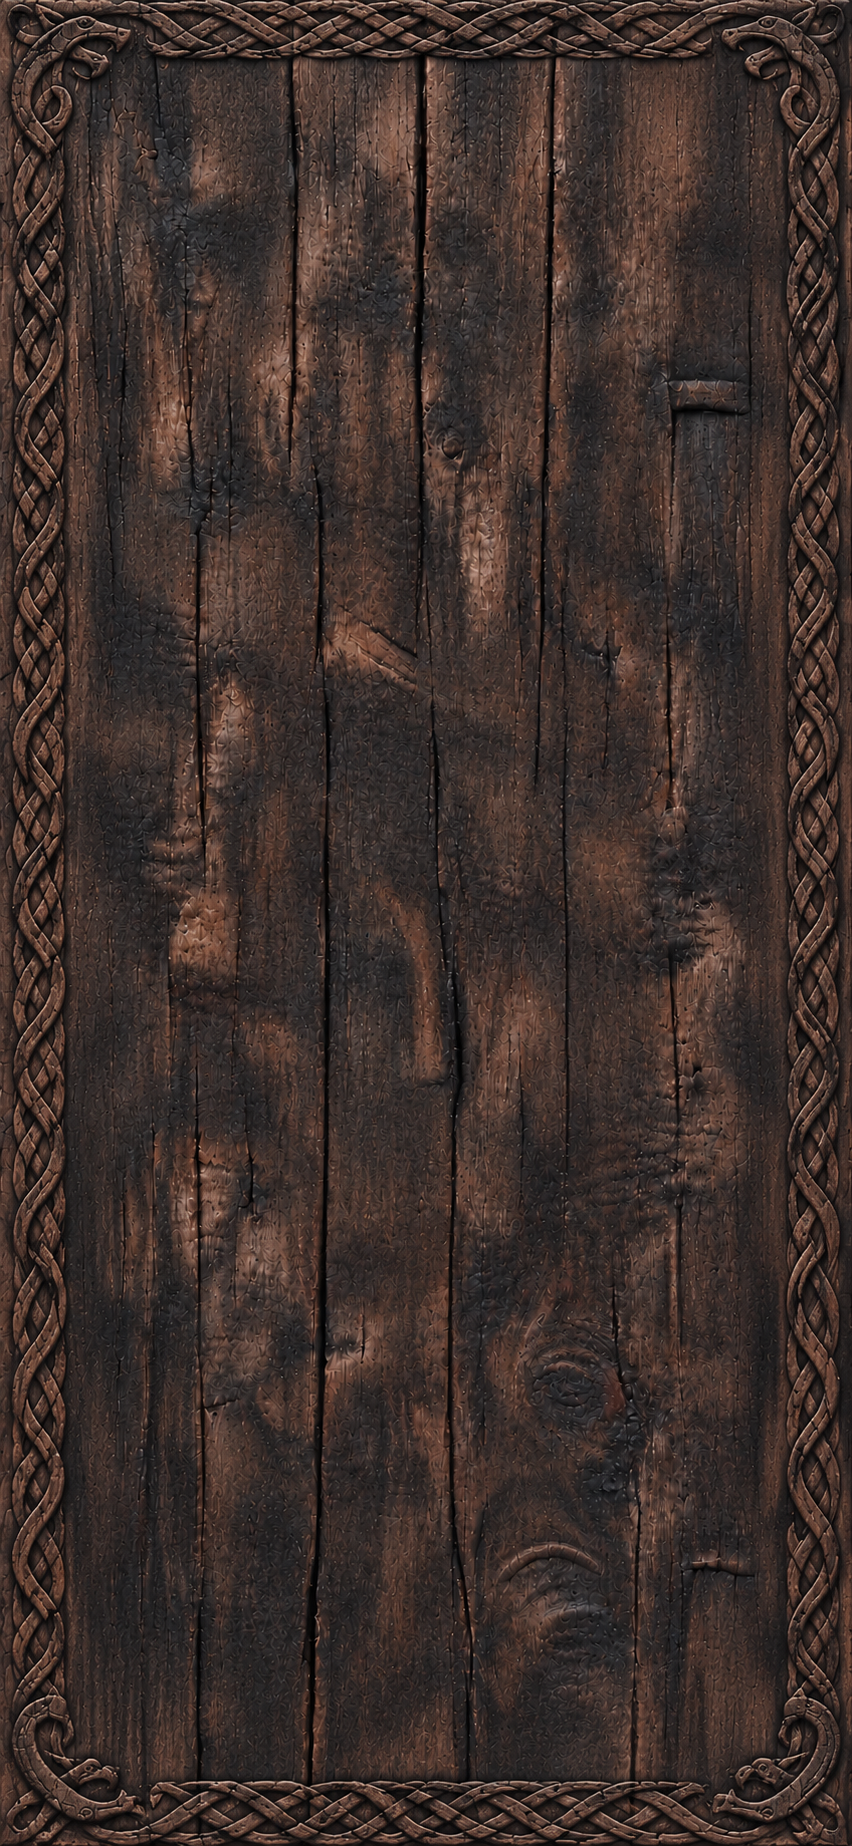
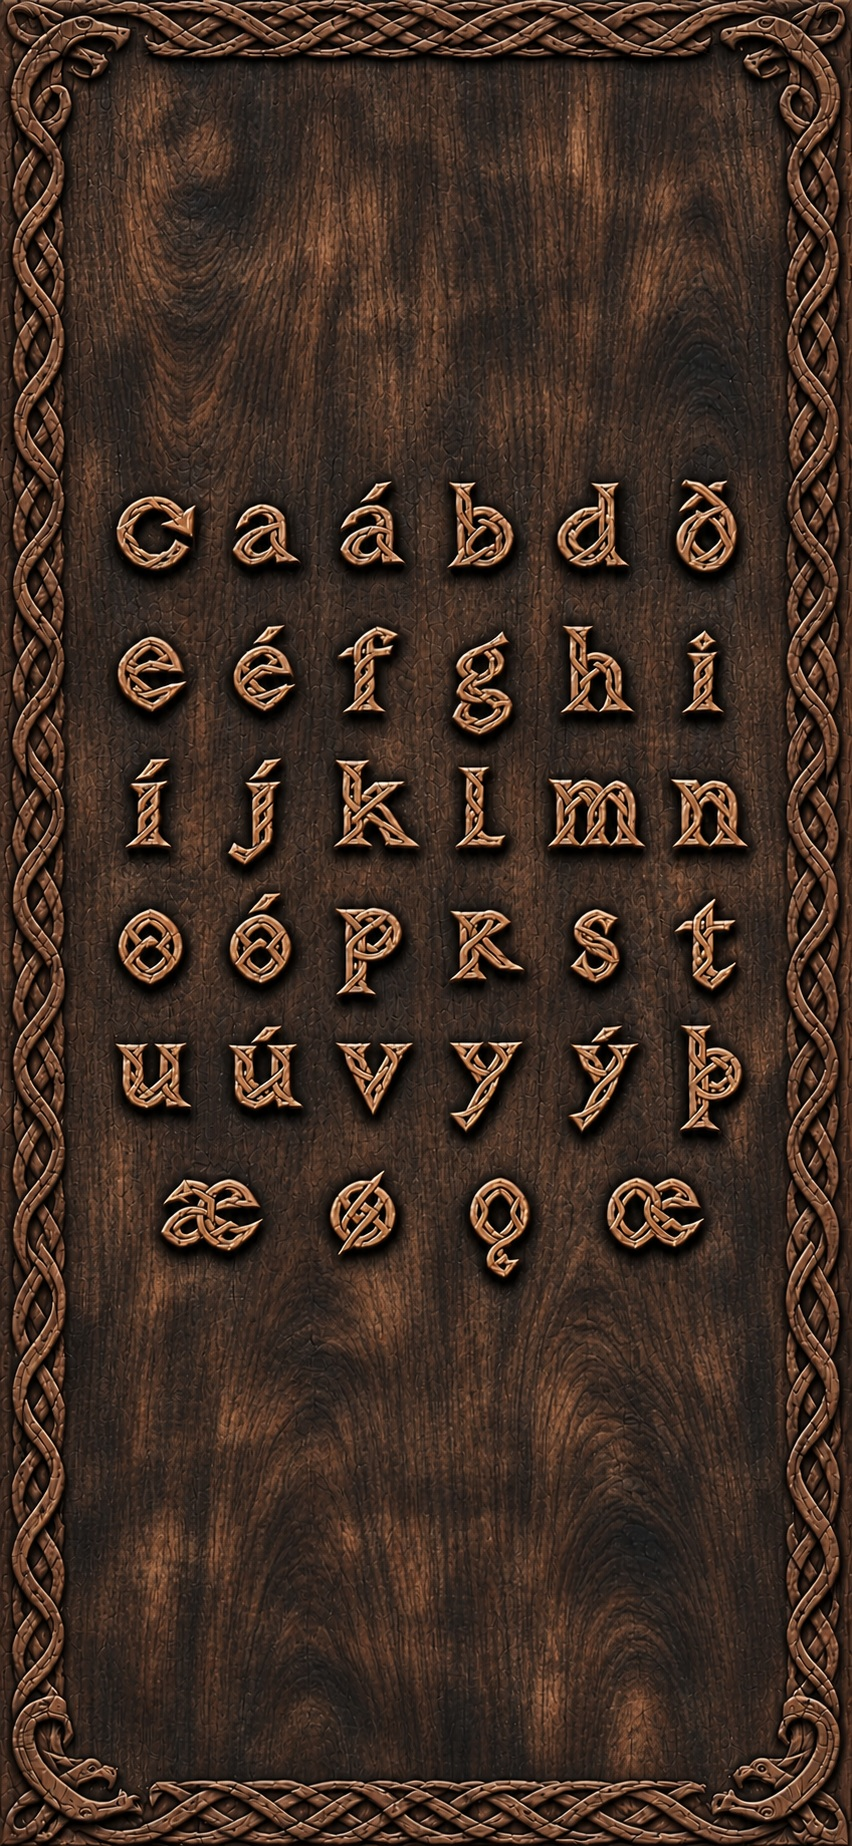
Install trimmed smooth aged-oak knotwork board

diff --git a/index.html b/index.html
@@ -50,7 +50,7 @@ if ('serviceWorker' in navigator) {
 * { box-sizing: border-box; margin: 0; padding: 0; -webkit-tap-highlight-color: transparent; }
 html, body {
   width: 100%; height: 100%; overflow: hidden;
-  background: #140d08 url('./bg_norse.jpg') center/100% 100% no-repeat;
+  background: #140d08 url('./bg_norse.jpg?v=47') center/100% 100% no-repeat;
   font-family: Georgia, 'Times New Roman', serif;
   color: #F8F1E5;
 }
@@ -375,6 +375,50 @@ html, body {
   background: transparent !important;
   background-image: none !important;
 }
+
+#alphaGrid {
+  position: relative !important;
+  display: flex !important;
+  flex-direction: column !important;
+  justify-content: space-between !important;
+  width: 82% !important;
+  height: 45% !important;
+  margin: auto auto 22% auto !important;
+  padding: 0 !important;
+}
+.alpha-row {
+  display: flex !important;
+  justify-content: space-between !important;
+  align-items: center !important;
+  width: 100% !important;
+  height: 15% !important;
+}
+.alpha-row:last-child {
+  width: 78% !important;
+  margin: 0 auto !important;
+  justify-content: space-between !important;
+}
+.alpha-btn {
+  width: 15% !important;
+  height: 100% !important;
+  background: transparent !important;
+  background-image: none !important;
+  border: none !important;
+  border-radius: 50% !important;
+  box-shadow: none !important;
+  color: transparent !important;
+  font-size: 0 !important;
+}
+.alpha-row:last-child .alpha-btn {
+  width: 20% !important;
+}
+.alpha-btn:active {
+  background: radial-gradient(circle, rgba(255, 190, 95, 0.28) 0%, transparent 72%) !important;
+}
+.alpha-btn.upd-ready {
+  background: radial-gradient(circle, rgba(255, 95, 0, 0.55) 0%, rgba(255, 60, 0, 0.22) 55%, transparent 78%) !important;
+  box-shadow: 0 0 14px rgba(255, 85, 0, 0.95) !important;
+}
 </style>
 </head>
 <body>
@@ -401,6 +445,6 @@ html, body {
 <div id="modalOverlay"><div id="modalBox"><h3 style="color:#E8C988;margin-bottom:6px">Lexical Sources &amp; Licenses</h3>Cleasby &amp; Vigfússon (1874), Geir T. Zoëga (1910), Dictionary of Old Norse Prose (ONP, CC BY-SA 4.0), and Wiktionary (CC BY-SA 4.0). All data bundled locally for 100% offline use.<button id="modalClose">Close</button></div></div>
 <div id="toast"></div>
 <script src="sql-wasm.js"></script>
-<script src="app.js?v=43"></script>
+<script src="app.js?v=47"></script>
 </body>
 </html>

diff --git a/app.js b/app.js
@@ -41,9 +41,9 @@ function renderAlphaGrid() {
       if (l === '↻') {
         const cls = window.__updReady ? 'upd-ready' : 'upd-ok';
         const ttl = window.__updReady ? 'Update available — tap to reload' : 'Up to date — tap to check';
-        return '<button id="updateBtn" class="alpha-btn ' + cls + '" onclick="handleUpdateClick()" title="' + ttl + '"><img src="glyphs/upd_clean.png?v=43" alt="Update"></button>';
+        return '<button id="updateBtn" class="alpha-btn ' + cls + '" onclick="handleUpdateClick()" title="' + ttl + '" aria-label="Update"></button>';
       }
-      return '<button class="alpha-btn" onclick="filterByLetter(\'' + l + '\')"><img src="glyphs/' + encodeURIComponent(l) + '.png?v=43" alt="' + l + '"></button>';
+      return '<button class="alpha-btn" onclick="filterByLetter('' + l + '')" aria-label="' + l + '"></button>';
     }).join('') +
     '</div>'
   ).join('');
